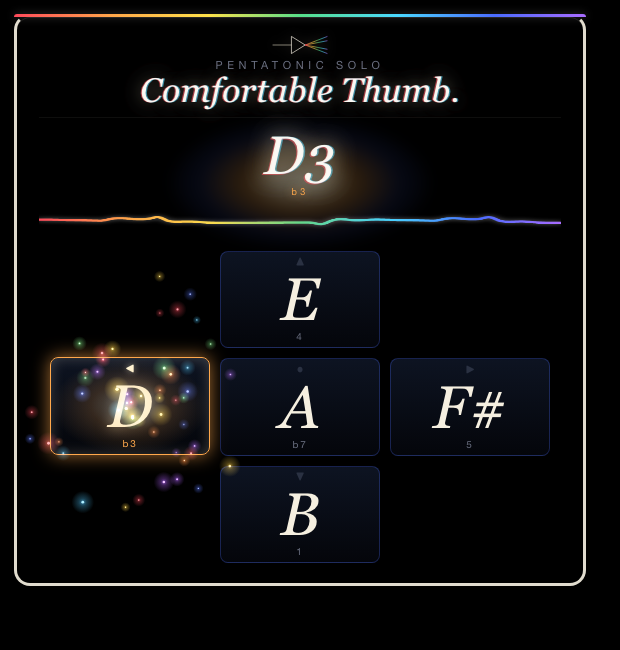
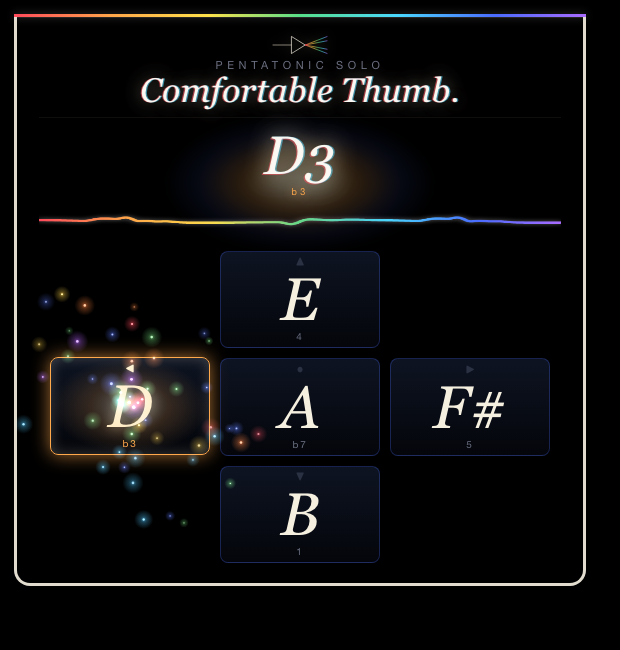
pentatonic-solo: sharp top corners so white sides flow into rainbow
Drop top-left / top-right border-radius to 0 (bottom corners stay
16px) so the white left/right borders run straight up into the
rainbow top strip without a curve. Updated screenshots to match.

diff --git a/pentatonic-solo/styles.css b/pentatonic-solo/styles.css
@@ -77,7 +77,7 @@ button { font: inherit; color: inherit; background: none; border: none; cursor: 
   flex-direction: column;
   gap: 8px;
   padding: 14px 22px 18px;
-  border-radius: 16px;
+  border-radius: 0 0 16px 16px;
   background: #000000;
   border-top:    3px solid transparent;       /* covered by ::before rainbow */
   border-left:   3px solid rgba(245, 239, 224, 0.92);
@@ -98,8 +98,6 @@ button { font: inherit; color: inherit; background: none; border: none; cursor: 
   background: linear-gradient(90deg,
     #ff4a5b 0%, #ffa64a 17%, #ffe24a 34%,
     #57e08a 50%, #4ad9ff 67%, #4a6cff 84%, #a96cff 100%);
-  border-top-left-radius: 16px;
-  border-top-right-radius: 16px;
   box-shadow: 0 0 8px rgba(255, 255, 255, 0.25);
 }
 